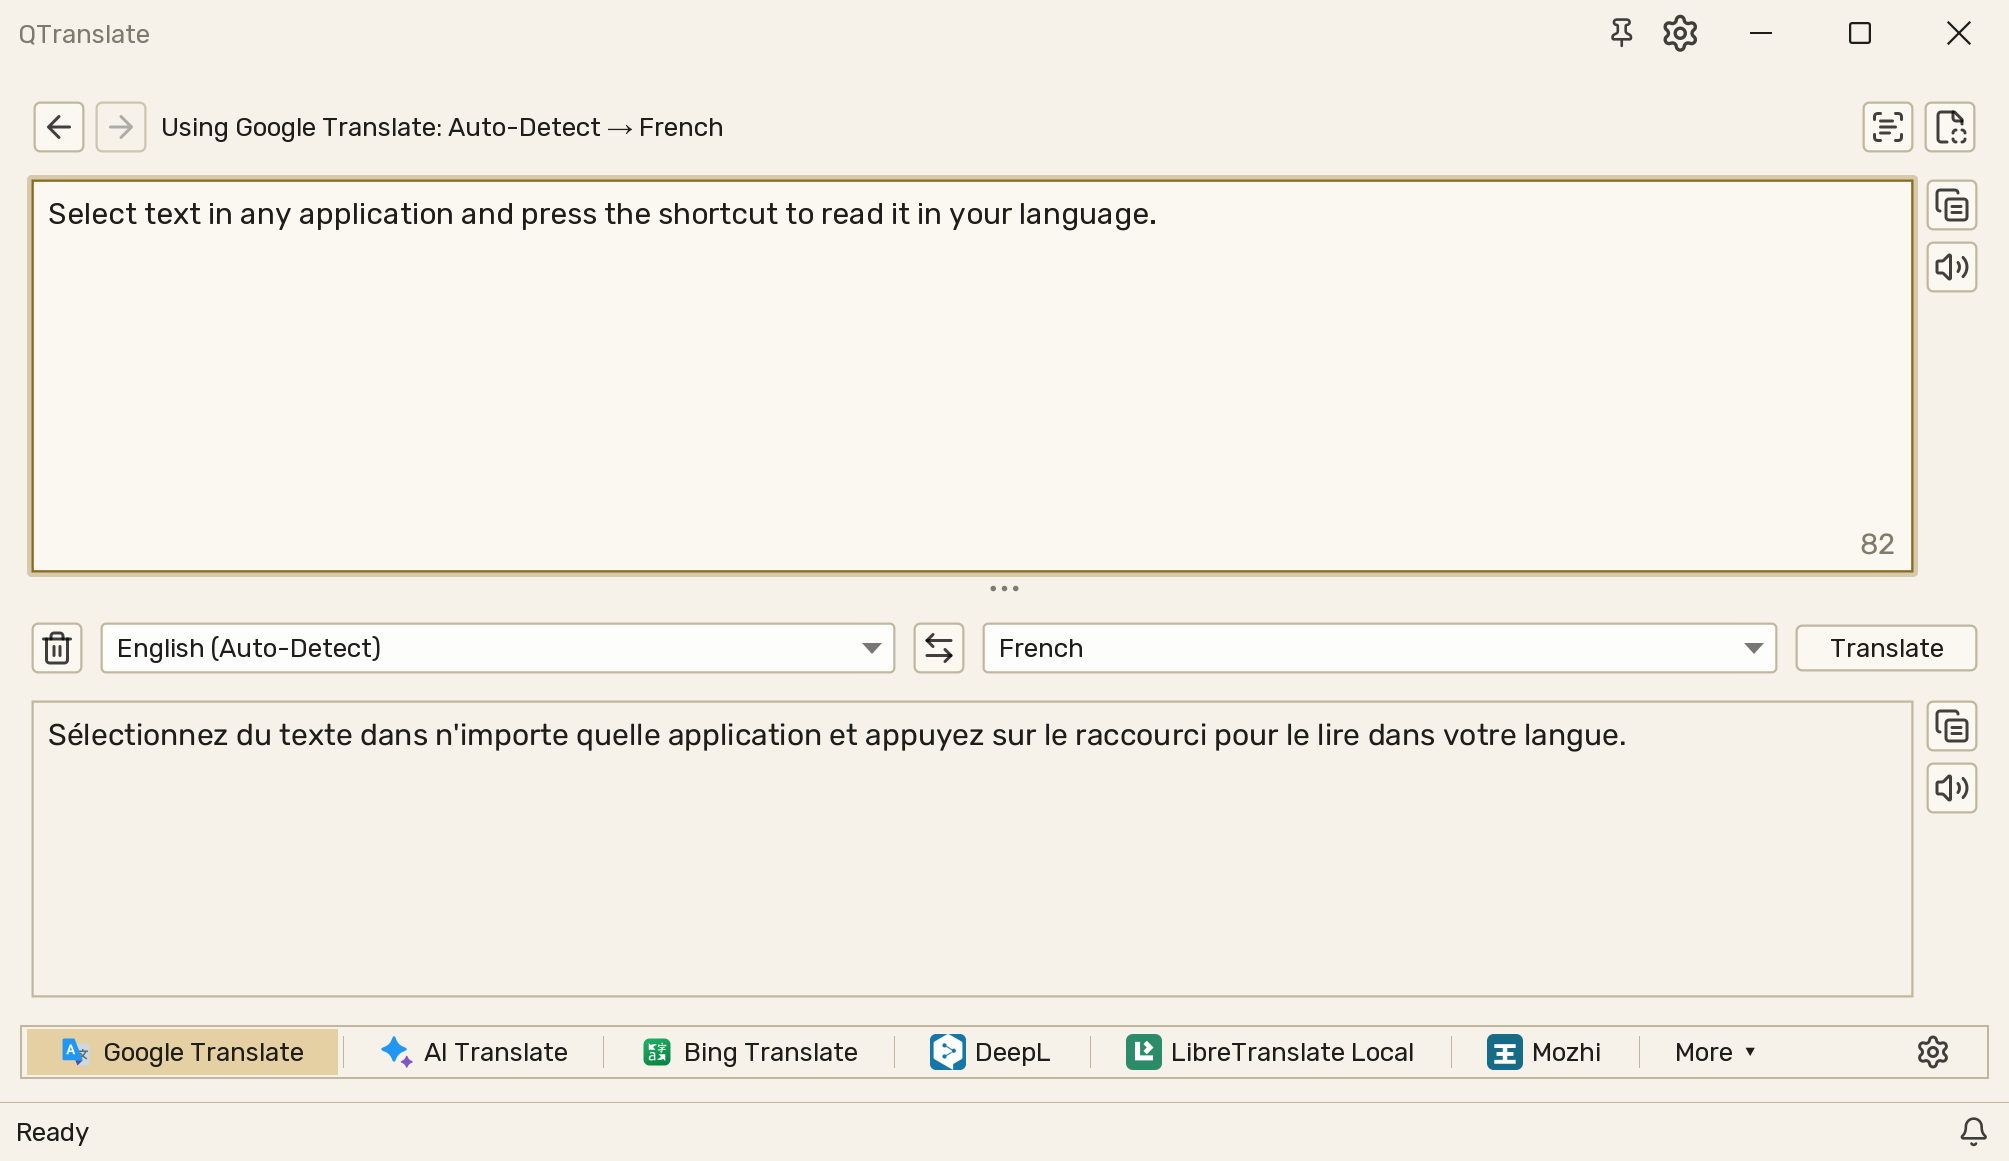
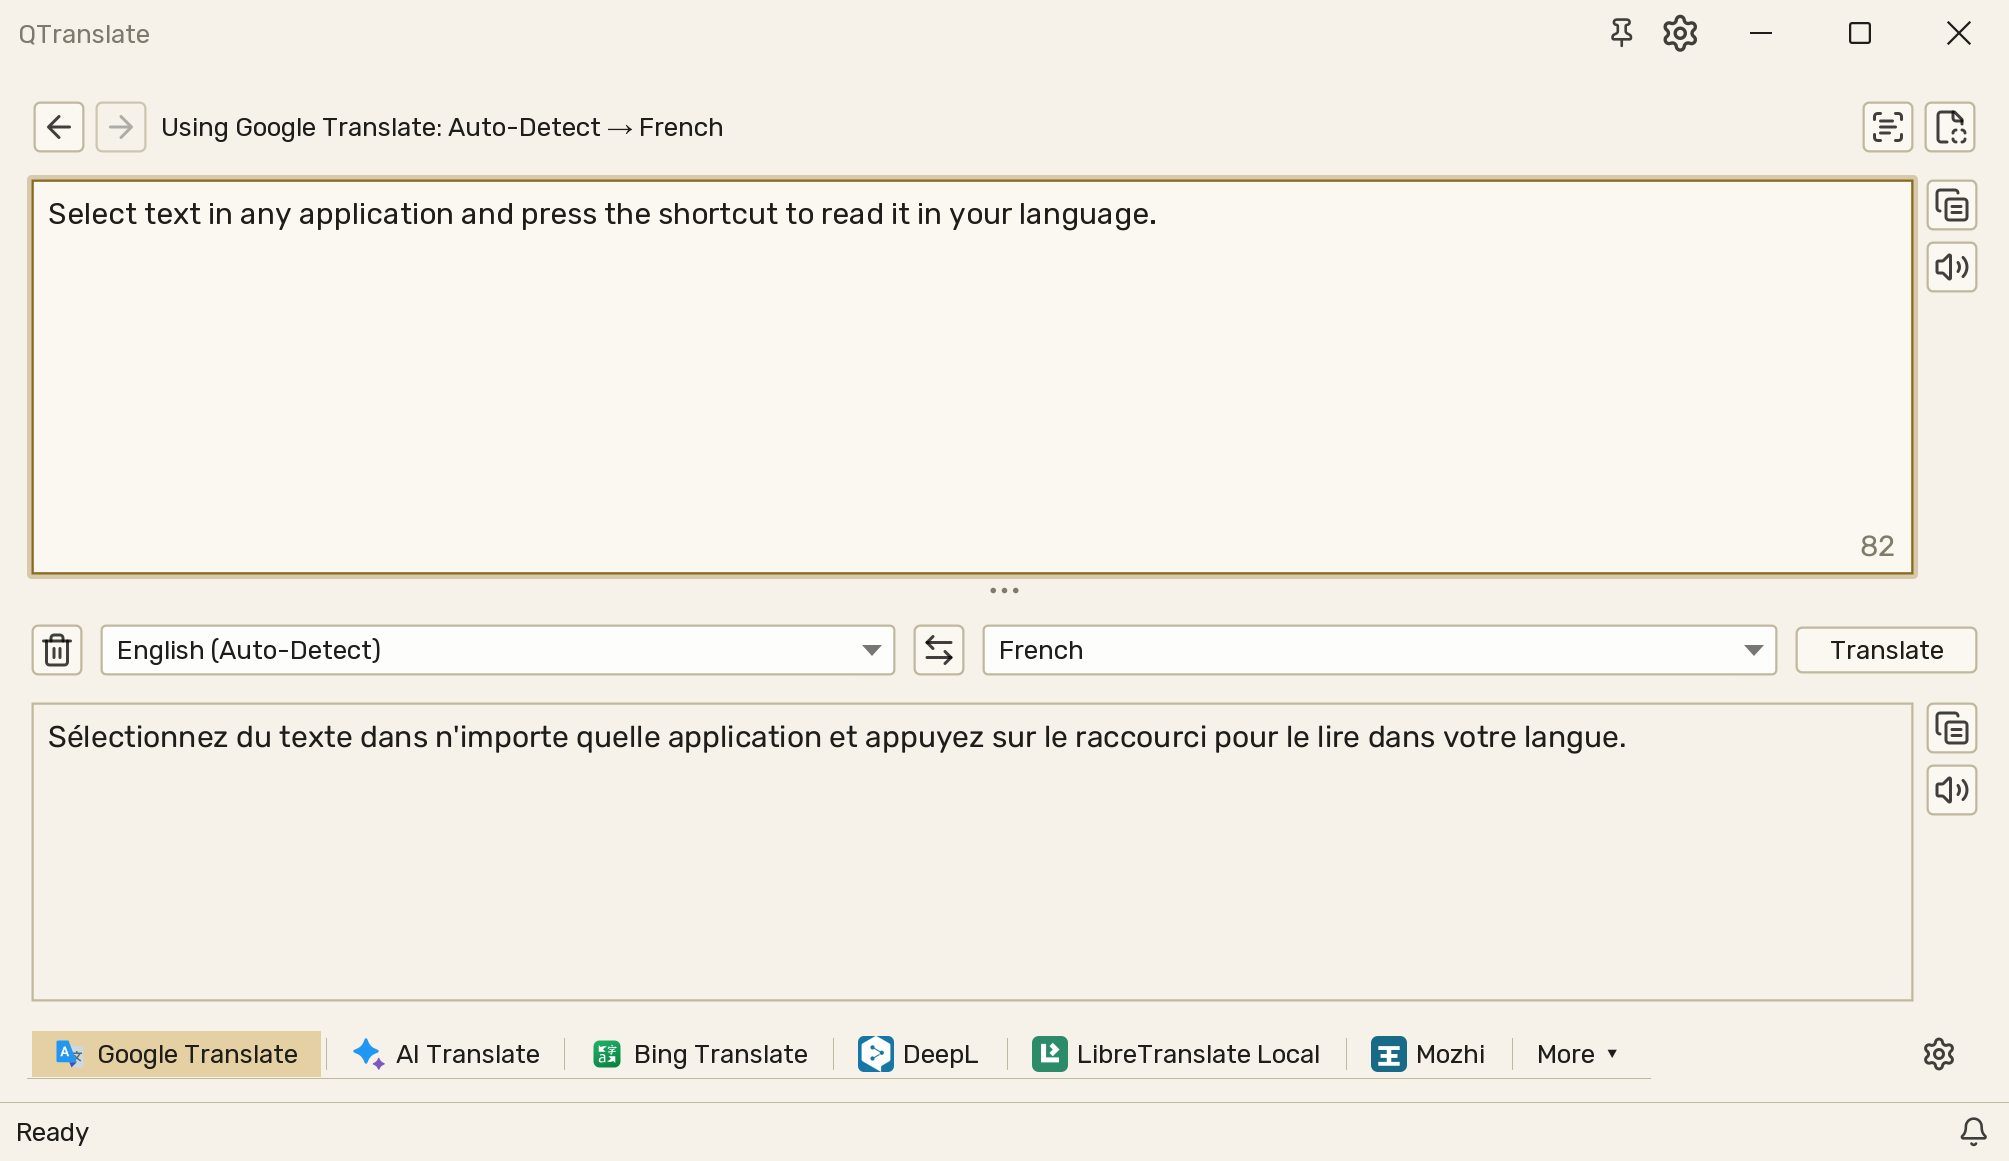
Unbox and align Classic service tabs

diff --git a/ui-swing/src/main/kotlin/com/github/ahatem/qtranslate/ui/swing/main/selector/TranslatorSelector.kt b/ui-swing/src/main/kotlin/com/github/ahatem/qtranslate/ui/swing/main/selector/TranslatorSelector.kt
@@ -14,7 +14,6 @@ import java.awt.event.ComponentEvent
 import java.awt.event.MouseAdapter
 import java.awt.event.MouseEvent
 import javax.swing.*
-import javax.swing.border.AbstractBorder
 import com.github.ahatem.qtranslate.ui.swing.shared.icon.Icons
 
 class TranslatorSelector(
@@ -37,6 +36,7 @@ class TranslatorSelector(
             segments.drop(1).forEach { segment ->
                 g.drawLine(segment.x, inset, segment.x, height - inset - 1)
             }
+            if (segments.isNotEmpty()) g.drawLine(0, height - 1, width - 1, height - 1)
         }
     }.apply { isOpaque = false }
     private var activeButton: JToggleButton? = null
@@ -56,20 +56,7 @@ class TranslatorSelector(
         addActionListener { activeServiceId?.let(onConfigureService) }
     }
     private val classic = JPanel(BorderLayout()).apply {
-        border = object : AbstractBorder() {
-            override fun getBorderInsets(c: Component) = Insets(
-                UIScale.scale(1), UIScale.scale(1), UIScale.scale(1), UIScale.scale(1)
-            )
-
-            override fun paintBorder(c: Component, g: Graphics, x: Int, y: Int, width: Int, height: Int) {
-                val original = g.color
-                g.color = UIManager.getColor("Component.borderColor") ?: Color.GRAY
-                repeat(UIScale.scale(1)) { inset ->
-                    g.drawRect(x + inset, y + inset, width - 1 - inset * 2, height - 1 - inset * 2)
-                }
-                g.color = original
-            }
-        }
+        isOpaque = false
         add(serviceStrip, BorderLayout.LINE_START)
         add(configureActive, BorderLayout.LINE_END)
         addComponentListener(object : ComponentAdapter() {
@@ -201,7 +188,7 @@ class TranslatorSelector(
     private fun loadIcon(service: ServiceInfo): Icon? = service.iconPath?.let { iconManager.getIcon(service.id, it, ICON_SIZE, ICON_SIZE) }
 
     private fun compactButtonMargin() = Insets(
-        UIScale.scale(1), UIScale.scale(6), UIScale.scale(1), UIScale.scale(6)
+        UIScale.scale(1), UIScale.scale(4), UIScale.scale(1), UIScale.scale(4)
     )
 
     private inner class ServiceRenderer : DefaultListCellRenderer() {

diff --git a/ui-swing/src/main/kotlin/com/github/ahatem/qtranslate/ui/swing/main/layout/Layouts.kt b/ui-swing/src/main/kotlin/com/github/ahatem/qtranslate/ui/swing/main/layout/Layouts.kt
@@ -115,8 +115,8 @@ object LayoutBuilders {
         return JPanel(BorderLayout(0, UIScale.scale(4))).apply {
             val selectorRow = JPanel(BorderLayout()).apply {
                 border = BorderFactory.createEmptyBorder(
-                    UIScale.scale(2), UIScale.scale(9),
-                    UIScale.scale(2), UIScale.scale(9)
+                    UIScale.scale(2), UISpacing.PADDING,
+                    UIScale.scale(2), UISpacing.PADDING
                 )
                 add(translatorSelector, BorderLayout.CENTER)
             }

diff --git a/ui-swing/src/test/kotlin/com/github/ahatem/qtranslate/ui/swing/main/layout/LayoutSystemTest.kt b/ui-swing/src/test/kotlin/com/github/ahatem/qtranslate/ui/swing/main/layout/LayoutSystemTest.kt
@@ -157,6 +157,9 @@ class LayoutSystemTest {
 
         assertEquals(24, selector.height)
         assertEquals(20, status.height)
+        val selectorX = SwingUtilities.convertPoint(selector, 0, 0, bottomBar).x
+        assertEquals(UISpacing.PADDING, selectorX)
+        assertEquals(UISpacing.PADDING, bottomBar.width - selectorX - selector.width)
     }
 
     @Test
